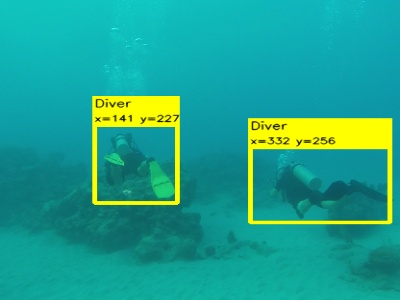
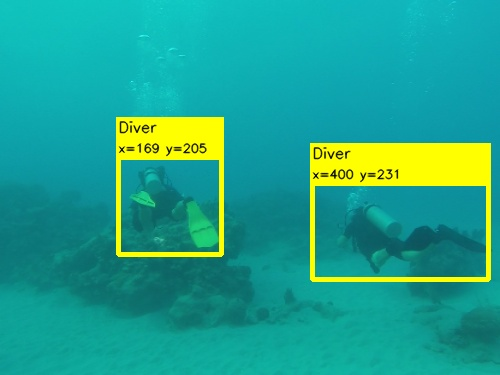
contents added

Changed region(s): [[0.6, 0.36, 0.99, 0.78], [0.21, 0.3, 0.45, 0.69]]

diff --git a/test_detector.py b/test_detector.py
@@ -32,6 +32,7 @@ i=0
 for im_file in IMAGE_PATHS:
     print ("Testing {0}".format(im_file))
     frame = cv2.imread(im_file)
+    frame = cv2.resize(frame, (500, 375))
     localized_objs = drDetect.Detect_multi_objs(frame) 
  
     if len(localized_objs)>0:
@@ -39,7 +40,7 @@ for im_file in IMAGE_PATHS:
 
     #cv2.imshow("Annotated Output", frame)
     #cv2.waitKey(2000) 
-    cv2.imwrite(str(i)+'.jpg', cv2.resize(frame, (400, 300)))
+    cv2.imwrite(str(i)+'.jpg', frame)
     i += 1
 
 

diff --git a/README.md b/README.md
@@ -6,7 +6,7 @@
 
 ## Testing the detector
 For testing individual images, run the test_detector.py file
-| ![inferent_result](./test_data/res/0.jpg)     | ![inferent_result](./test_data/res/4.jpg)     |
+| ![inferent_result](./test_data/res/0.jpg)     | ![inferent_result](./test_data/res/1.jpg)     | ![inferent_result](./test_data/res/7.jpg)     |
 
 
 ## Testing the diver-tracker
